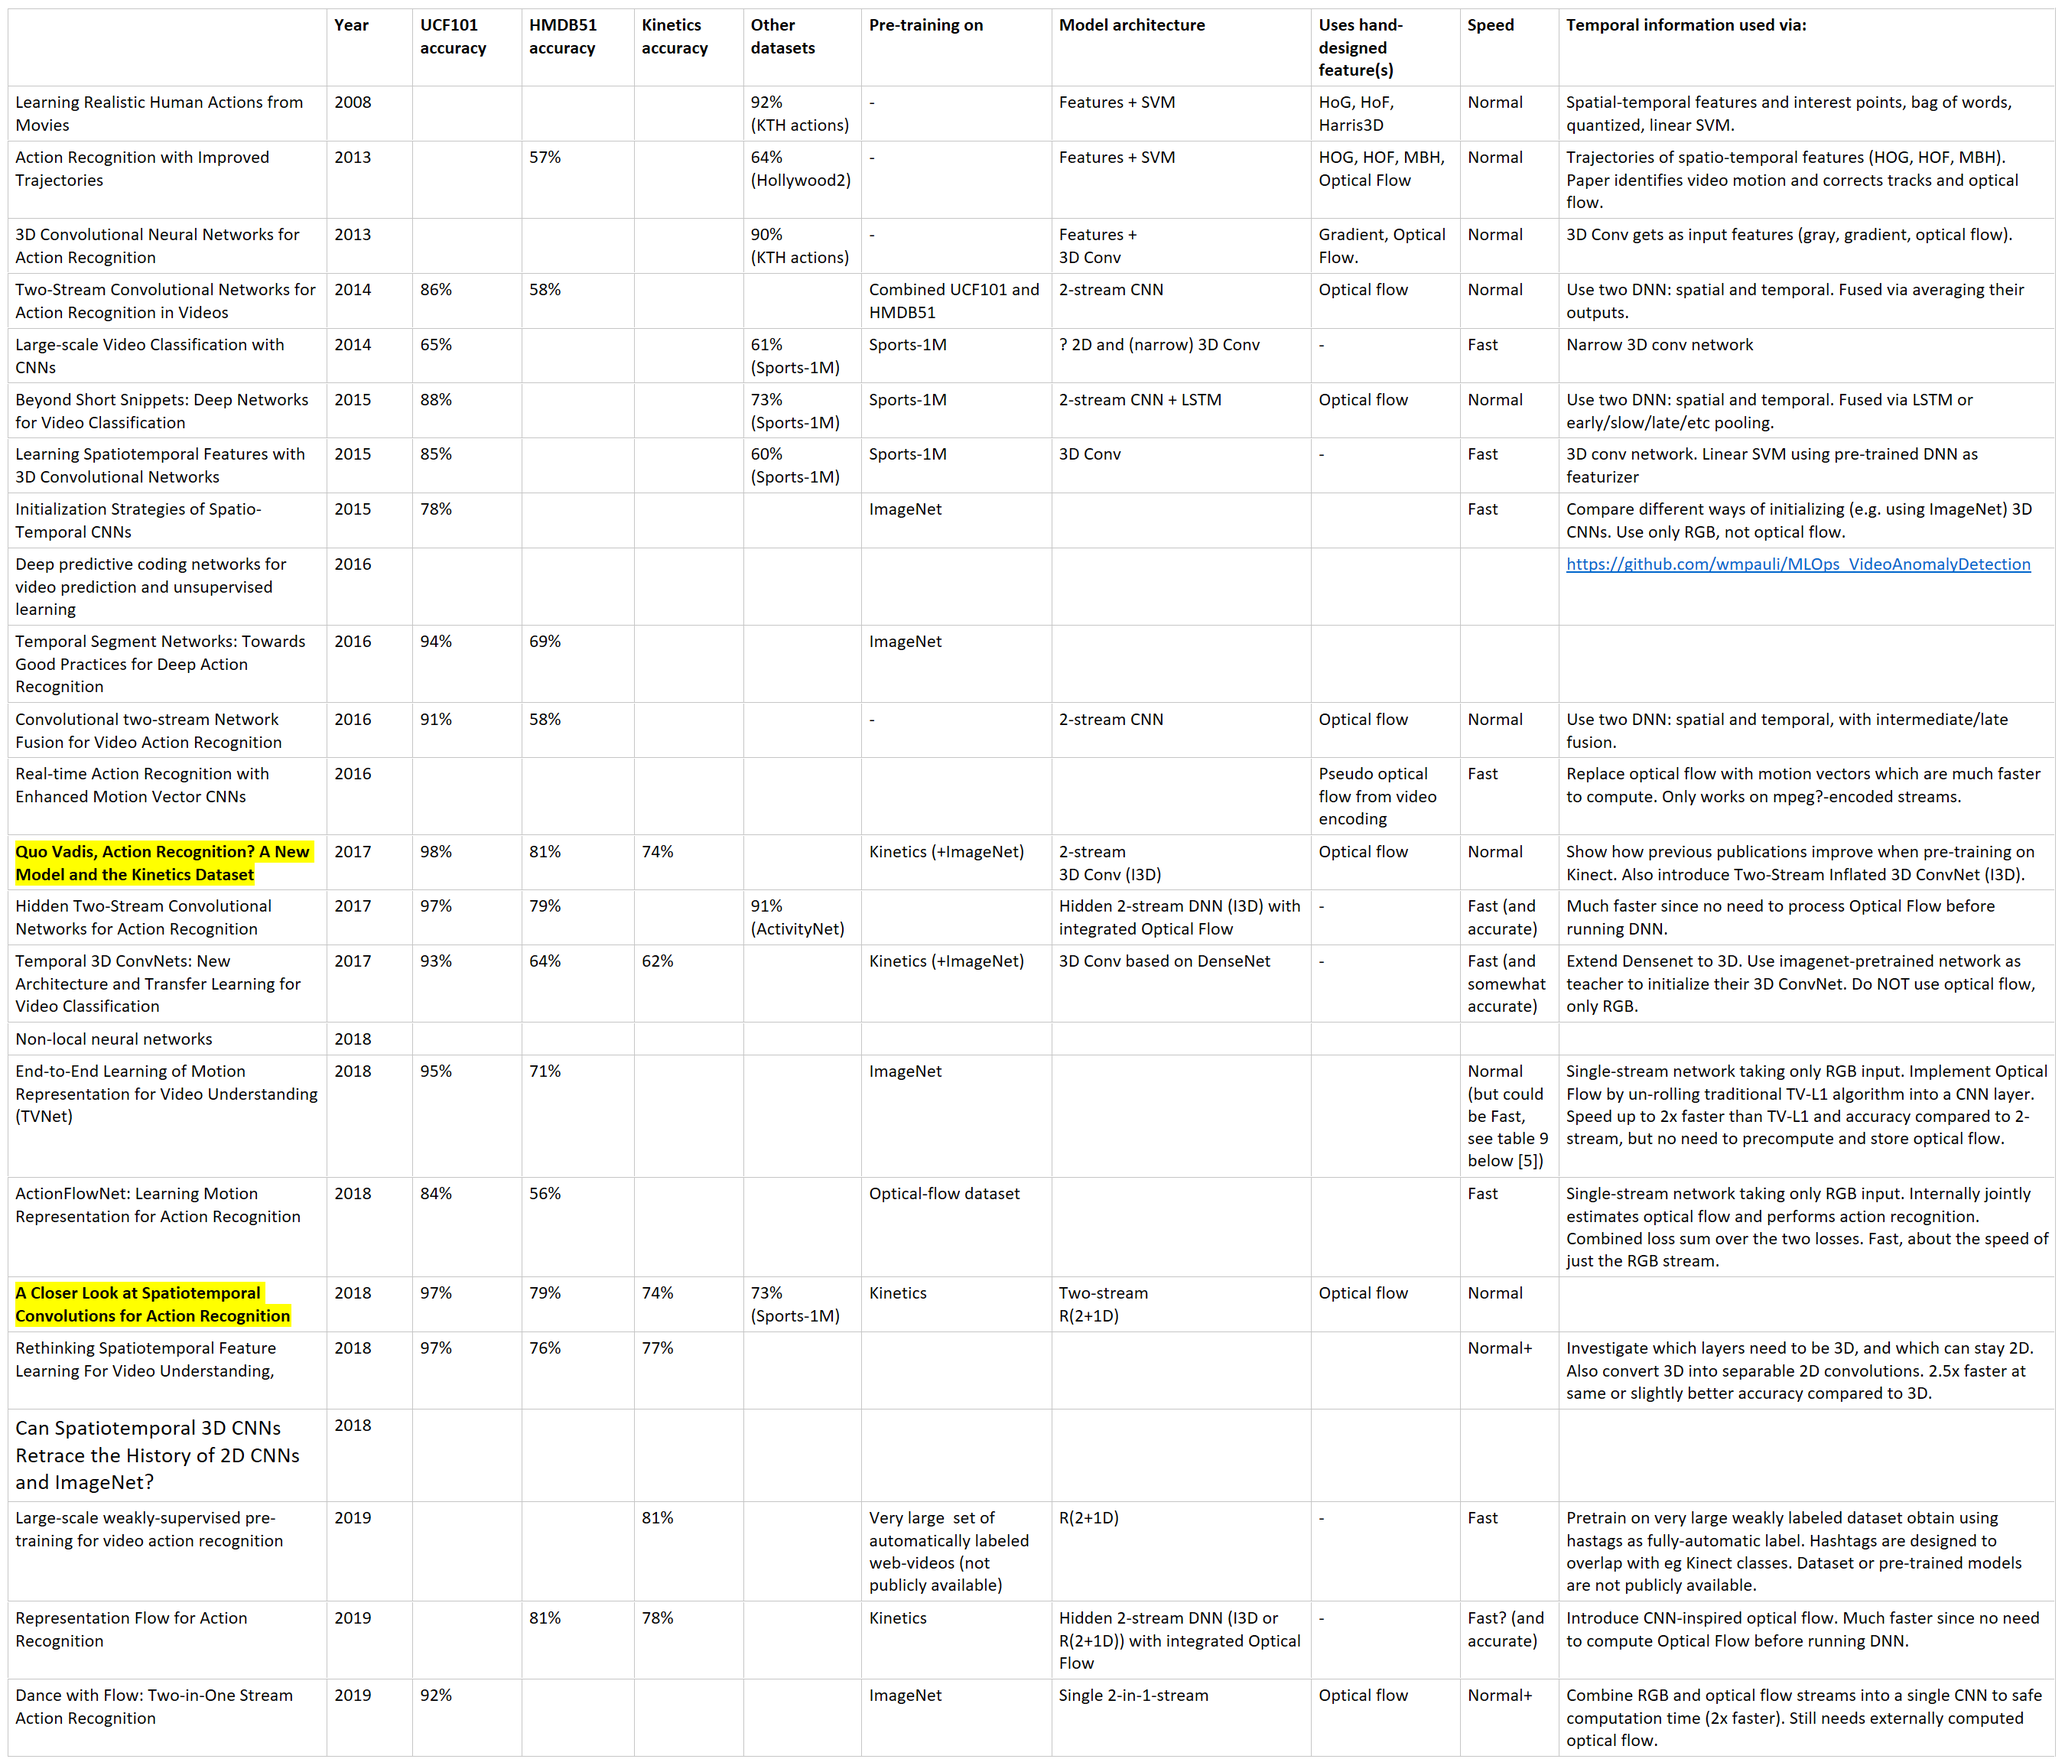
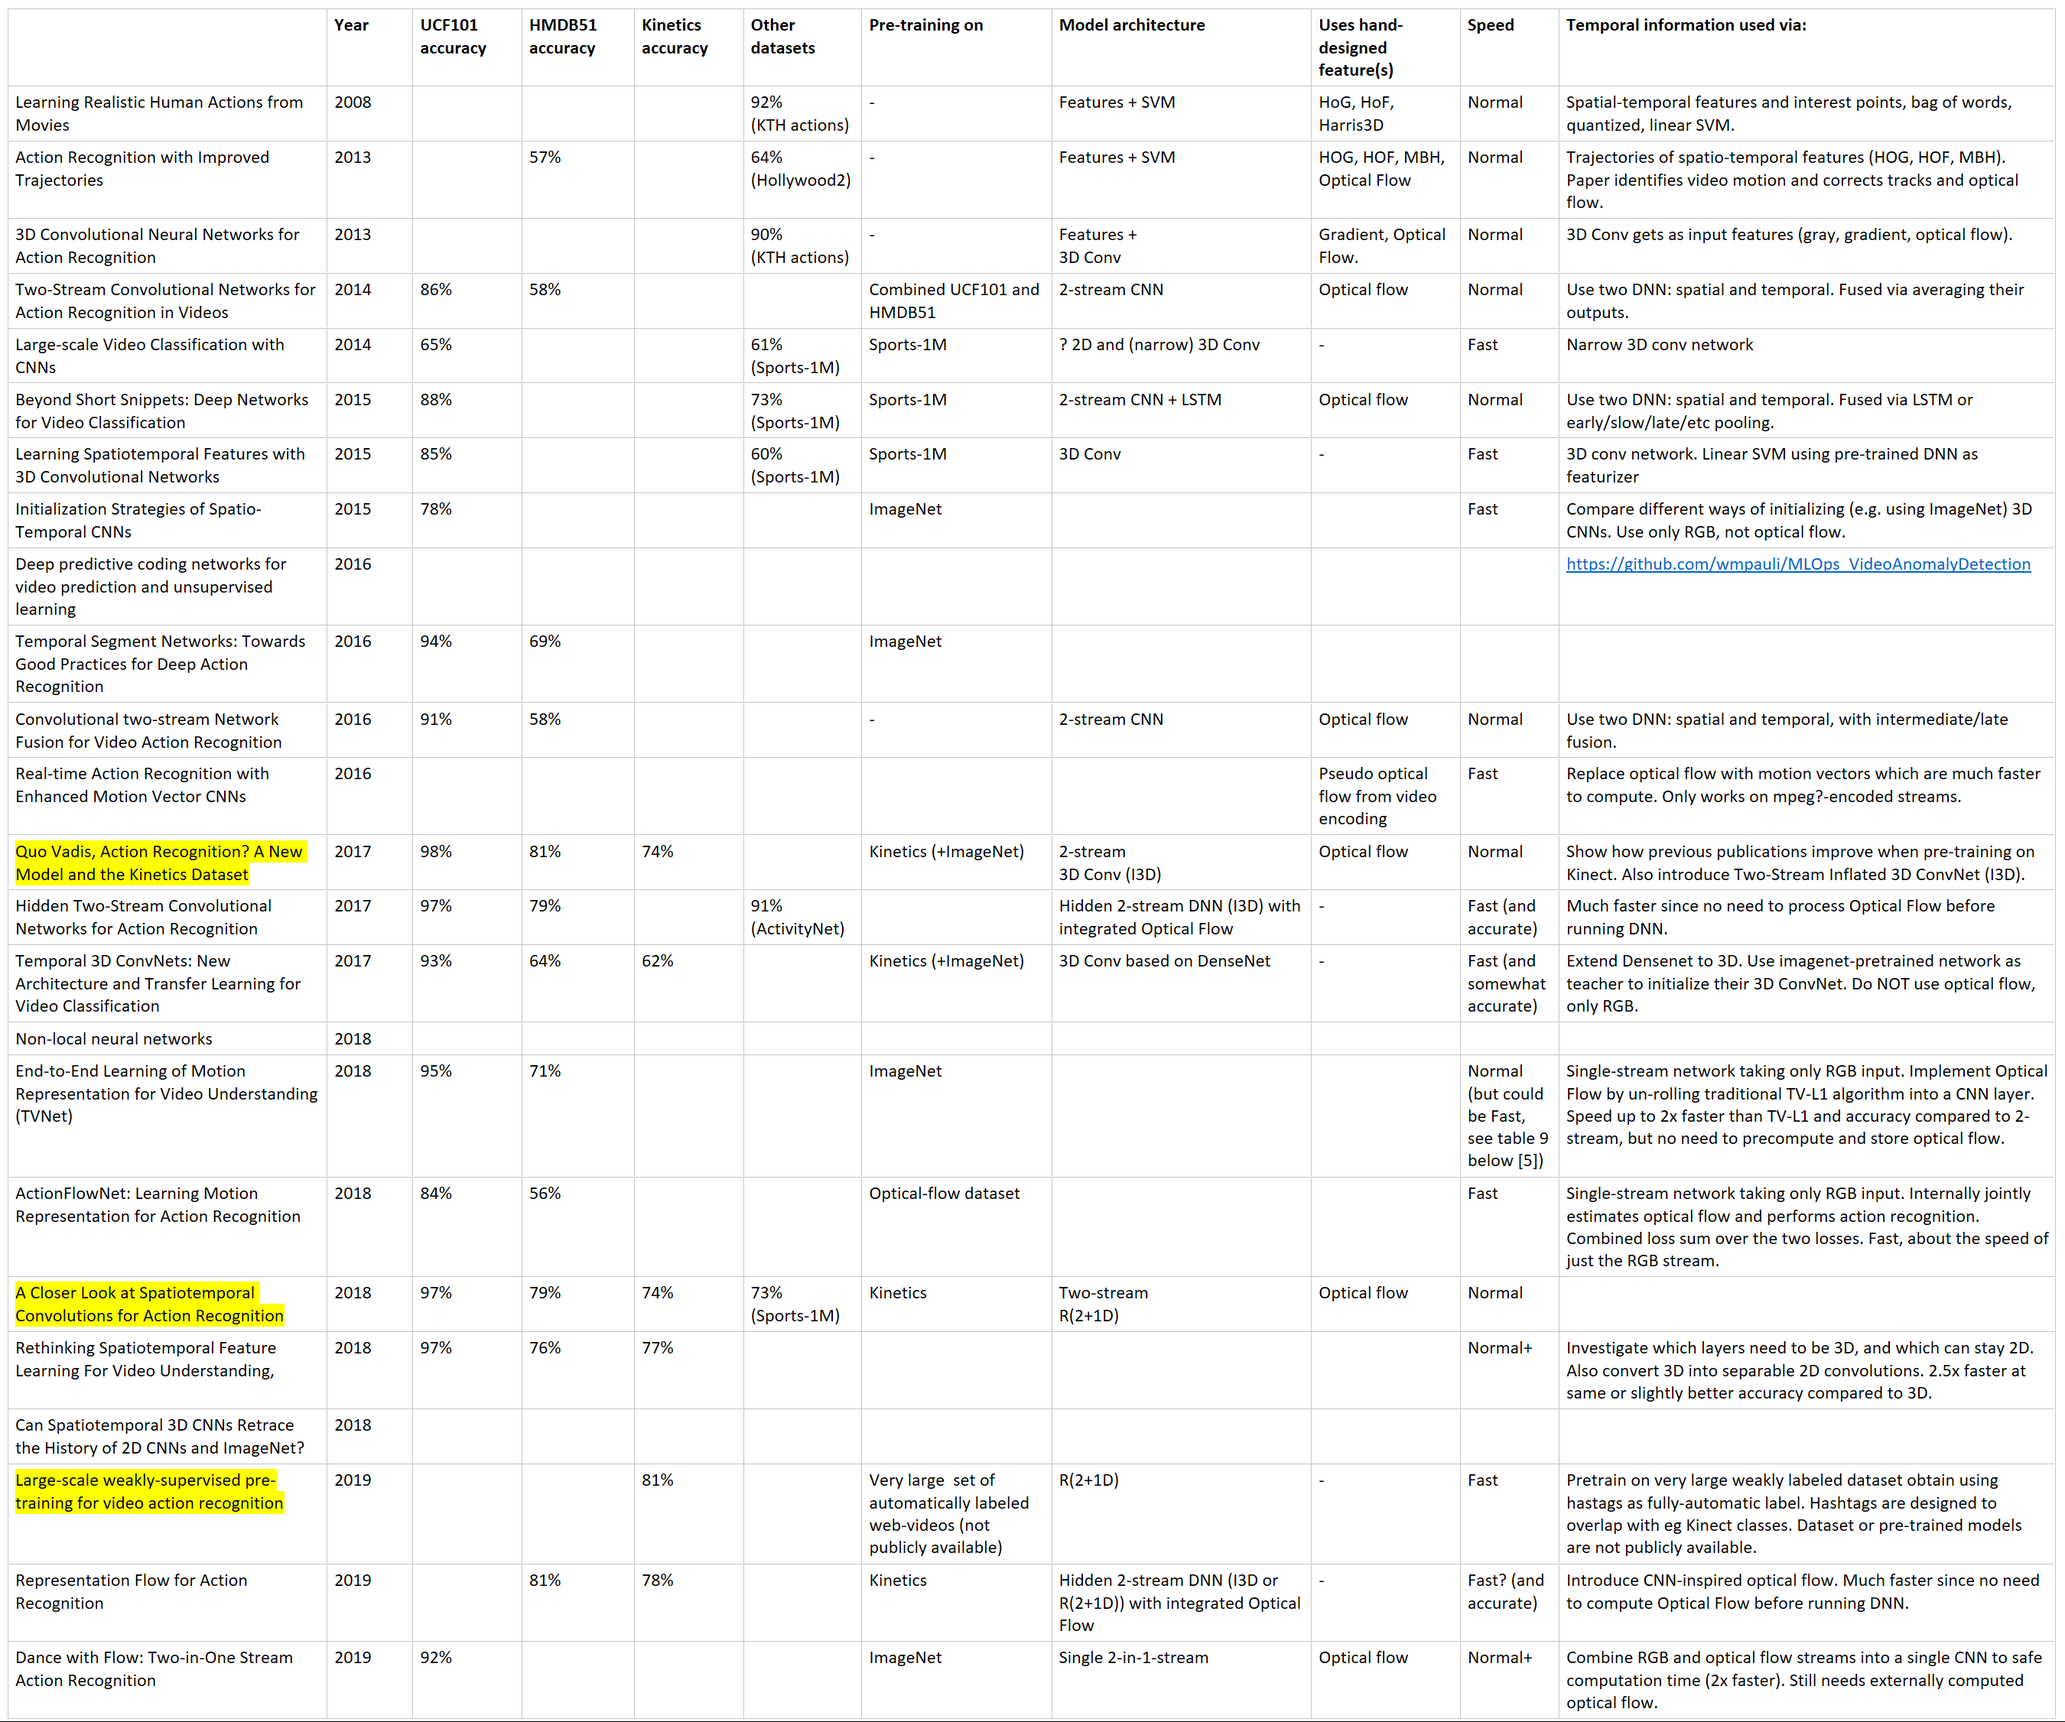
minor updates

diff --git a/contrib/action_recognition/README.md b/contrib/action_recognition/README.md
@@ -21,7 +21,7 @@ In the tables below, we list datasets which are commonly used and also give an o
 Recommended reading:
 - As introduction to action recognition the blog [Deep Learning for Videos: A 2018 Guide to Action Recognition](http://blog.qure.ai/notes/deep-learning-for-videos-action-recognition-review).
 - [ActionRecognition.net](http://actionrecognition.net/files/dset.php) for the latest state-of-the-art accuracies on popular research benchmark datasets.
-- All papers highlighted in **bold** (and yellow) in the publications table below.
+- All papers highlighted in yellow in the publications table below.
 
 Popular datasets:
 
@@ -44,8 +44,5 @@ Popular datasets:
 
 
 
-Popular publications, with recommended papers to read highlighed in **bold**:
+Popular publications, with recommended papers to read highlighted in yellow:
 <img align="center" src="./media/publications.png"/>  
-
-
-## Etc
